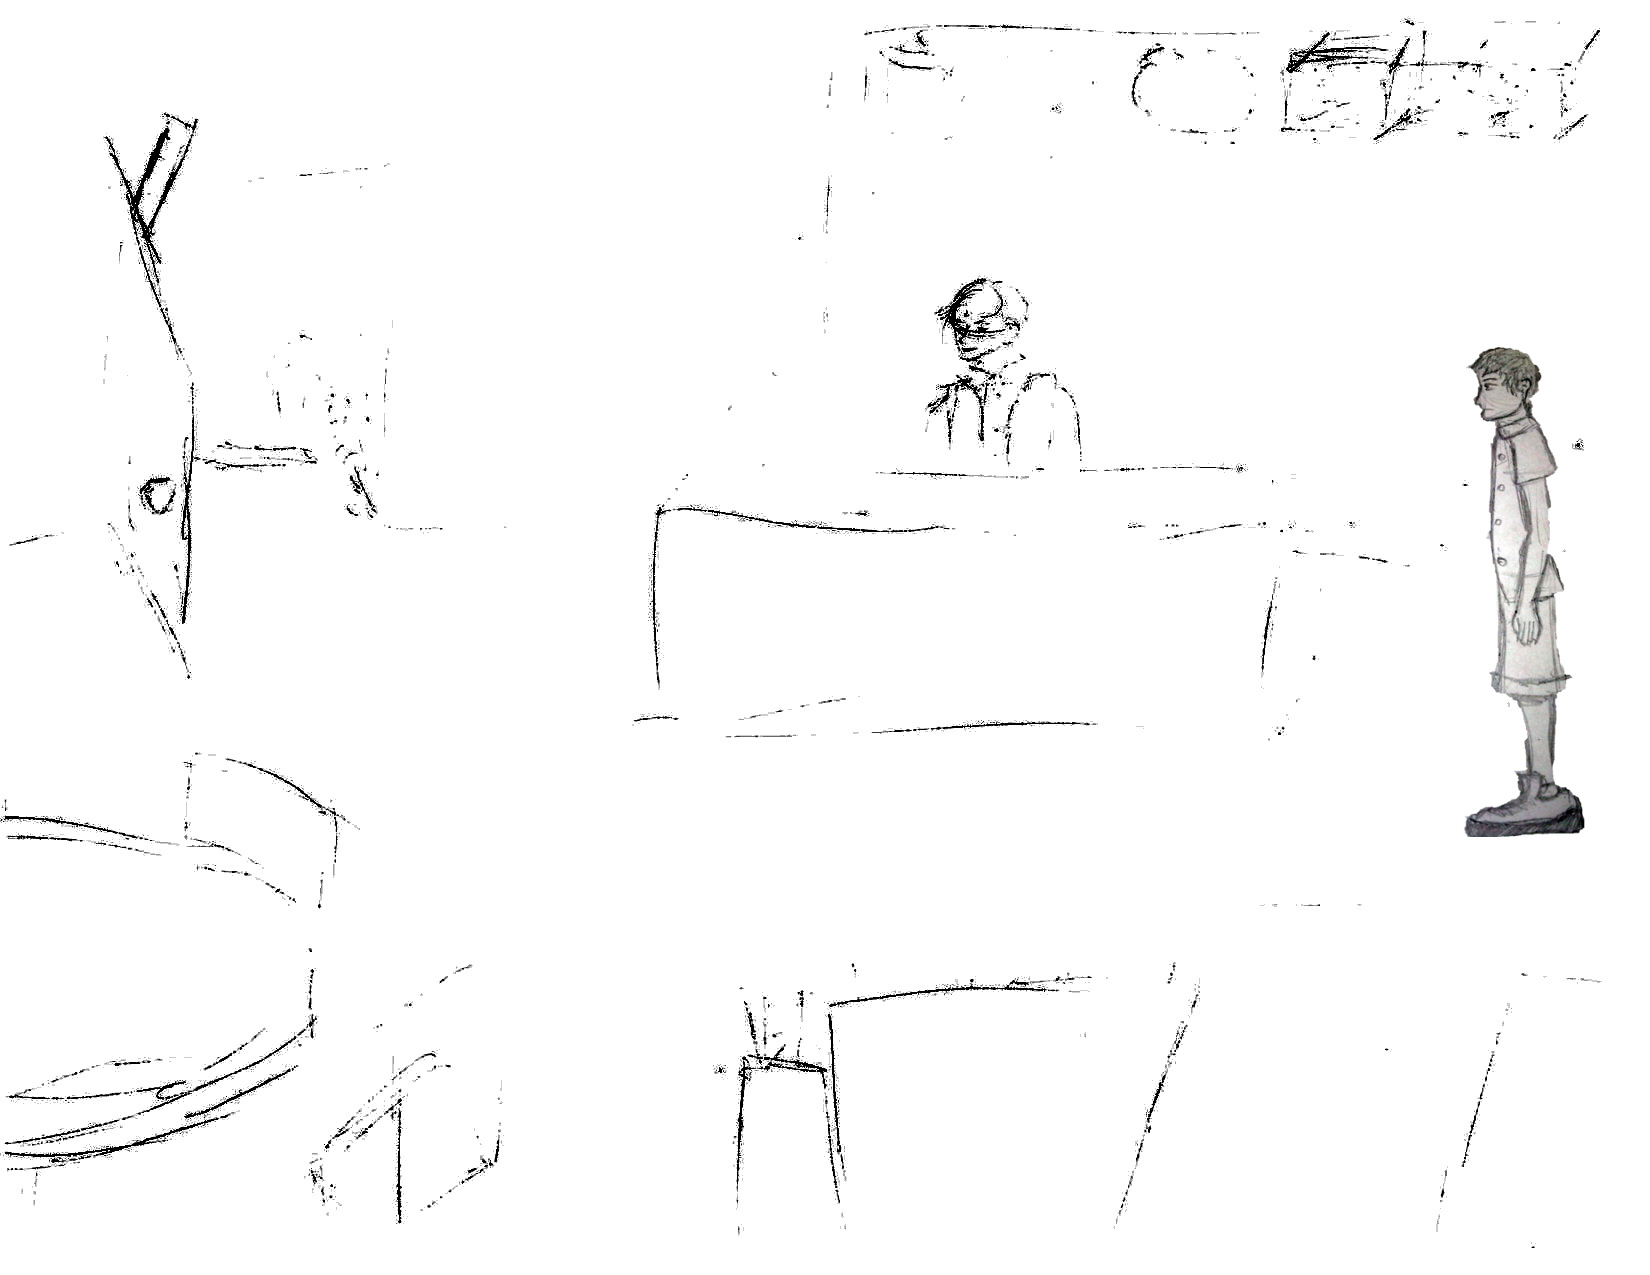
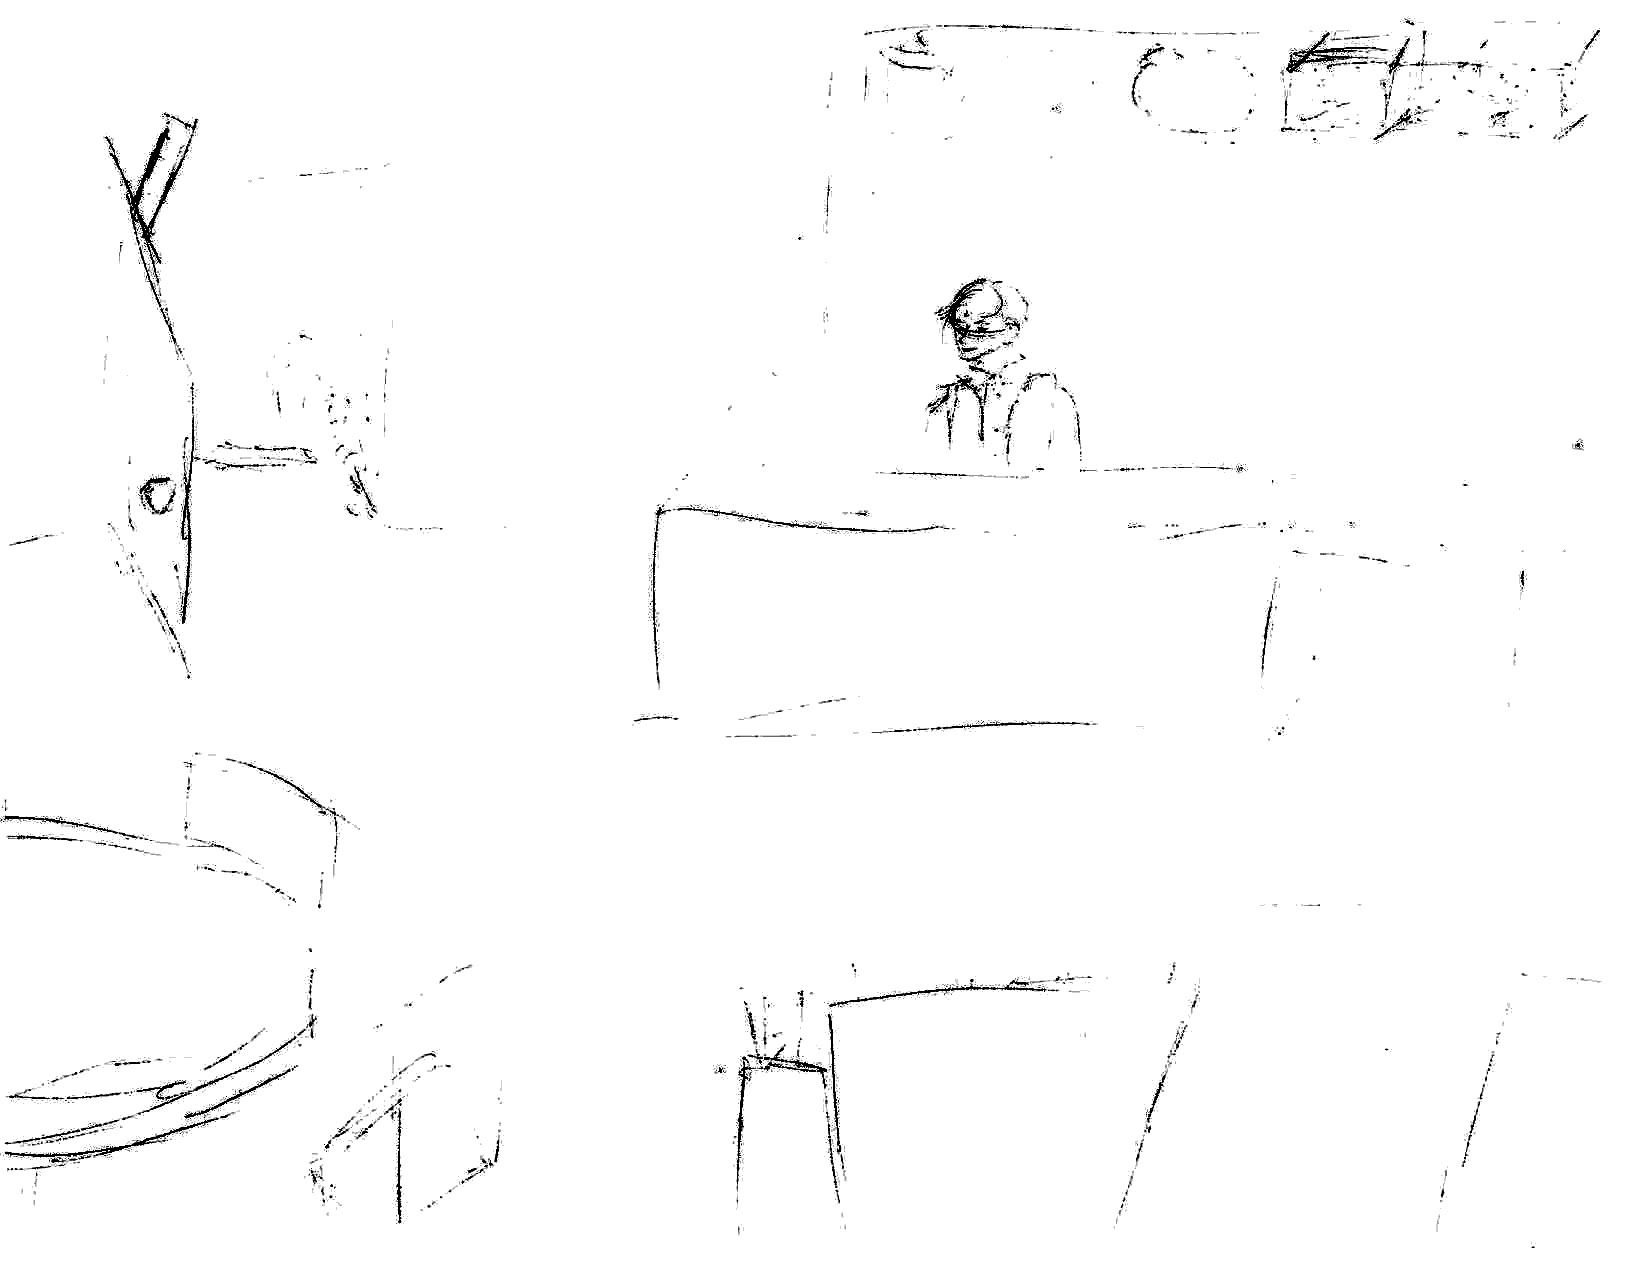
Added scene image support. Simon will no longer appear in both the tea shop and the Changing Heads at once

Changed region(s): [[0.8655, 0.2753, 0.9582, 0.6729]]

diff --git a/js/adventure/conversations.js b/js/adventure/conversations.js
@@ -38,7 +38,7 @@ adventure.getConversations = function () {
     "examineNormalSizedHead": {
         "dialog": [
             "Kylie",
-            "Huh. Looks like they've finally gotten the size right. Wait... Oh my! Simon!",
+            "Why is this one so much smaller? Wait... Oh my! Simon!",
             "Simon",
             "Huh? ...Oh, Kylie. I must've dozed off."
         ],
@@ -176,16 +176,10 @@ adventure.getConversations = function () {
                 "next": "talkingToSimonInTeaShopAboutJournalismSchool"
             },
             {
-                "description": "I'm good. Hey, tell me about being an animator! ",
+                "description": "I'm good. Hey, tell me about being an animator!",
                 "dialog": [
-                    "Simon",
-                    "Oh, I'm not an animator; I'm a storyboard artist. It's going pretty good. I don't know; I'm kind of having writer's block or something.",
                     "Kylie",
-                    "Oh no! That's not good. Well, maybe being back home will give you a chance to do some soul searching.",
-                    "Simon",
-                    "Hey, let's check out the Changing Heads. Maybe you can write a news story, and I can get inspired.",
-                    "Kylie",
-                    "Yeah, sounds good. I'll meet you there."
+                    "I'm good. Hey, tell me about being an animator!"
                 ],
                 "next": "talkingToSimonInTeaShopAboutAnimation"
             }
@@ -210,6 +204,14 @@ adventure.getConversations = function () {
             {
                 "description": "Hey, so what's it like being an animator?",
                 "dialog": [
+                    "Kylie", "Hey, so what's it like being an animator?"
+                ],
+                "next": "talkingToSimonInTeaShopAboutAnimation"
+            }
+        ]
+    },
+	"talkingToSimonInTeaShopAboutAnimation": {
+		"dialog": [
                     "Simon",
                     "Oh, I'm not an animator; I'm a storyboard artist. It's going pretty good. I don't know; I'm kind of having writer's block or something.",
                     "Kylie",
@@ -218,11 +220,15 @@ adventure.getConversations = function () {
                     "Hey, let's check out the Changing Heads. Maybe you can write a news story, and I can get inspired.",
                     "Kylie",
                     "Yeah, sounds good. I'll meet you there."
-                ],
-                "next": "talkingToSimonInTeaShopAboutAnimation"
-            }
-        ]
-    },
+		],
+		"onEnter": "onTalkingToSimonAboutAnimation",
+		"options": [
+			{
+				"description": "Finish talking",
+				"next": "end"
+			}
+		]
+	},
     "preEnd": {
         "dialog": [
             ""

diff --git a/js/adventure/scene-functions.js b/js/adventure/scene-functions.js
@@ -5,6 +5,8 @@ See the file license.txt for copying permission.
 */
 
 adventure.getSceneFunctions = function (adventureProvider) {
+	var worldState = adventureProvider.worldState;
+
 	var sceneFunctions = {
 		'enterTeaShopAndSeeSimon': function () {
 			if (!adventureProvider.worldState['hasSeenSimonInTeaShop']) {
@@ -17,12 +19,19 @@ adventure.getSceneFunctions = function (adventureProvider) {
 				adventureProvider.hideSceneImageById('simon');
 			}
 		},
+		'onTalkingToSimonAboutAnimation': function () {
+			adventureProvider.worldState['hasDecidedToGoToChangingHeads'] = true;
+		},
 		'enterChangingHeads': function () {
-			if (adventureProvider.worldState['hasWaitedForSimonAtChangingHeads']) { return; }
-			adventureProvider.worldState['hasWaitedForSimonAtChangingHeads'] = true;
-			adventureProvider.putPlayerAt(135, 374);
-			adventureProvider.startConversation('introduceTheChangingHeads');
-			return false;
+			if (!worldState['hasDecidedToGoToChangingHeads']) {
+				adventureProvider.hideSceneImageById('simon-head');
+			}
+			if (worldState['hasDecidedToGoToChangingHeads'] &&
+					!worldState['hasWaitedForSimonAtChangingHeads']) {
+				worldState['hasWaitedForSimonAtChangingHeads'] = true;
+				adventureProvider.startConversation('introduceTheChangingHeads');
+				return false;
+			}
 		},
 		'onHittingNormalSizedHead': function () {
 			adventureProvider.worldState['hasFoundSimon'] = true;

diff --git a/js/adventure/scenes.js b/js/adventure/scenes.js
@@ -29,6 +29,13 @@ adventure.getScenes = function () {
 					destinationPosition: {x: 135, y: 374}
 				}
 			],
+			images: [
+				{
+					id: 'simon-head',
+					url: 'img/characters/simon-head.png',
+					shape: { type: "rectangle", topLeftCorner: {x: 544, y: 401}, bottomRightCorner: {x: 580, y: 450} }
+				}
+			]
 		},
 		"pond": {
 			background: "pond.jpg",
@@ -112,8 +119,8 @@ adventure.getScenes = function () {
 				}
 				, {
 					description: "Talk to Simon",
-					shape: { type: "rectangle", topLeftCorner: {x: 570, y: 224}, bottomRightCorner: {x: 787, y: 433} },
-					positionToMovePlayerTo: {x: 541, y: 398},
+					shape: { type: "rectangle", topLeftCorner: {x: 549, y: 219}, bottomRightCorner: {x: 647, y: 445} },
+					positionToMovePlayerTo: {x: 473, y: 436},
 					conversationToStart: 'talkingToSimonInTeaShop',
 					isSolid: true
 				}

diff --git a/js/adventure-engine/conversation-manager.js b/js/adventure-engine/conversation-manager.js
@@ -6,7 +6,7 @@ See the file license.txt for copying permission.
 
 // TODO: This is not decoupled from the HTML yet
 
-adventure.getConversationManager = function (conversations) {
+adventure.getConversationManager = function (conversations, sceneFunctions) {
 
 	var currentConversation = {};
 	var isInConversation = false;
@@ -93,7 +93,7 @@ adventure.getConversationManager = function (conversations) {
 	var proceedConversation = function () {
 		var overridingDialog;
 		if (currentConversation.onEnter) {
-			overridingDialog = currentConversation.onEnter();
+			overridingDialog = sceneFunctions[currentConversation.onEnter]();
 		}
 		if (typeof overrideDialog !== 'undefined') {
 			writeDialog(overridingDialog);

diff --git a/js/adventure-engine/engine.js b/js/adventure-engine/engine.js
@@ -160,7 +160,7 @@ adventure.getEngine = function () {
 
 		currentScene = scenes[startSceneName];
 
-		conversationManager = adventure.getConversationManager(conversations);
+		conversationManager = adventure.getConversationManager(conversations, sceneFunctions);
 		adventureProviderForUIManager.startConversation = conversationManager.startConversation;
 		adventureProviderForSceneFunctions.startConversation = conversationManager.startConversation;
 
